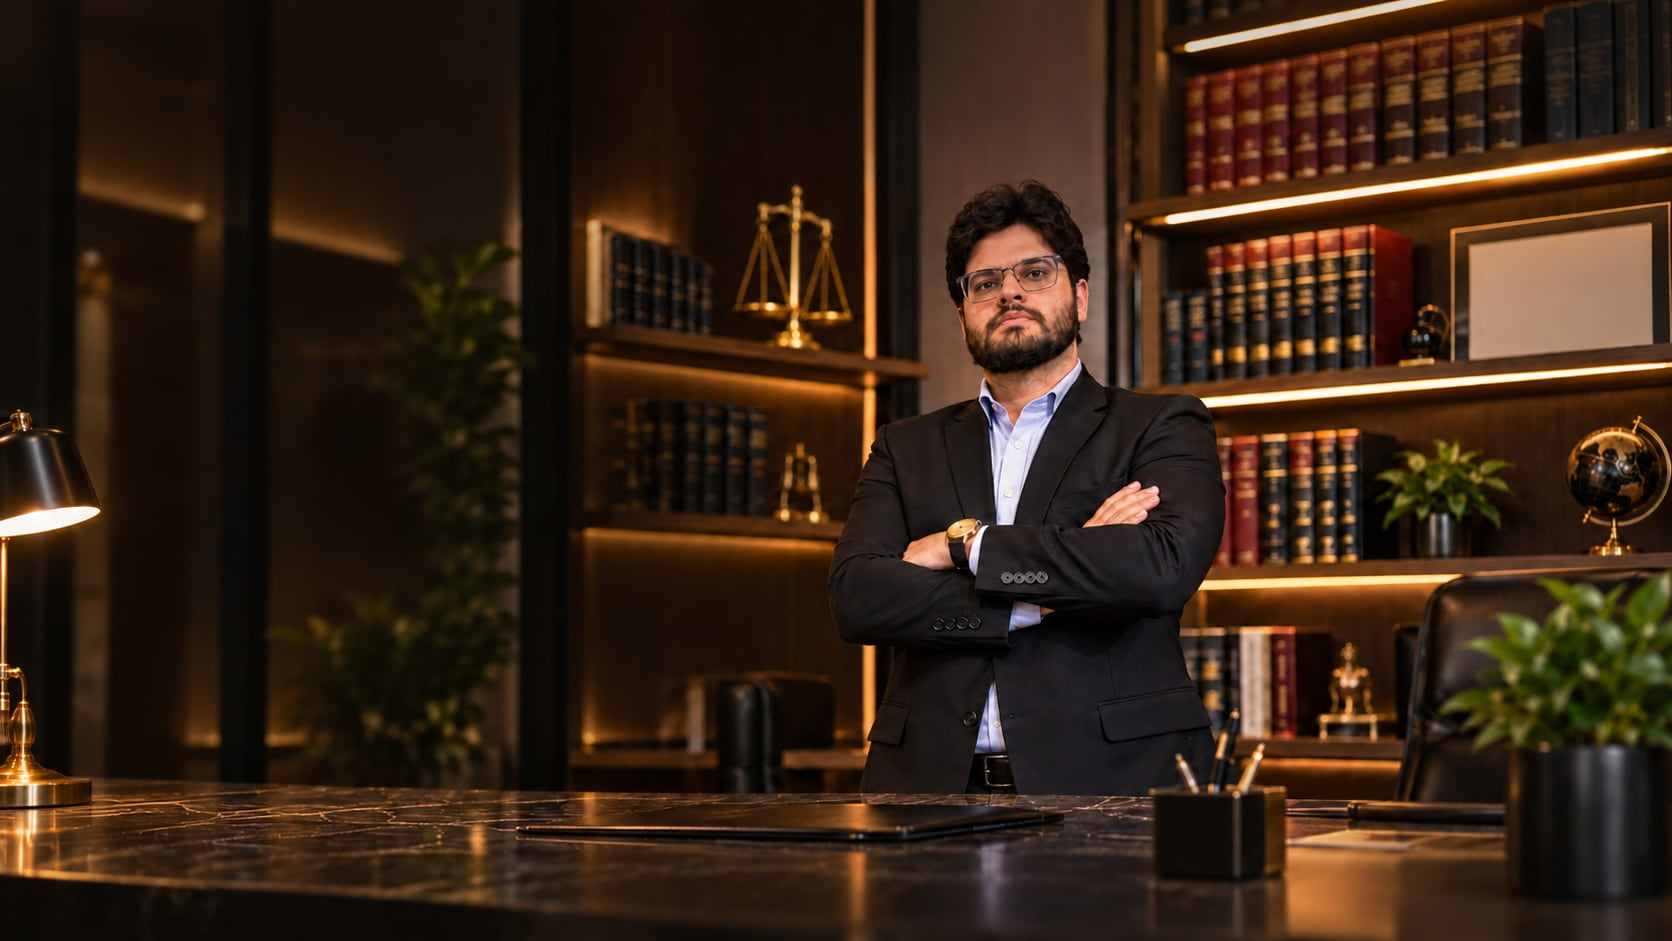
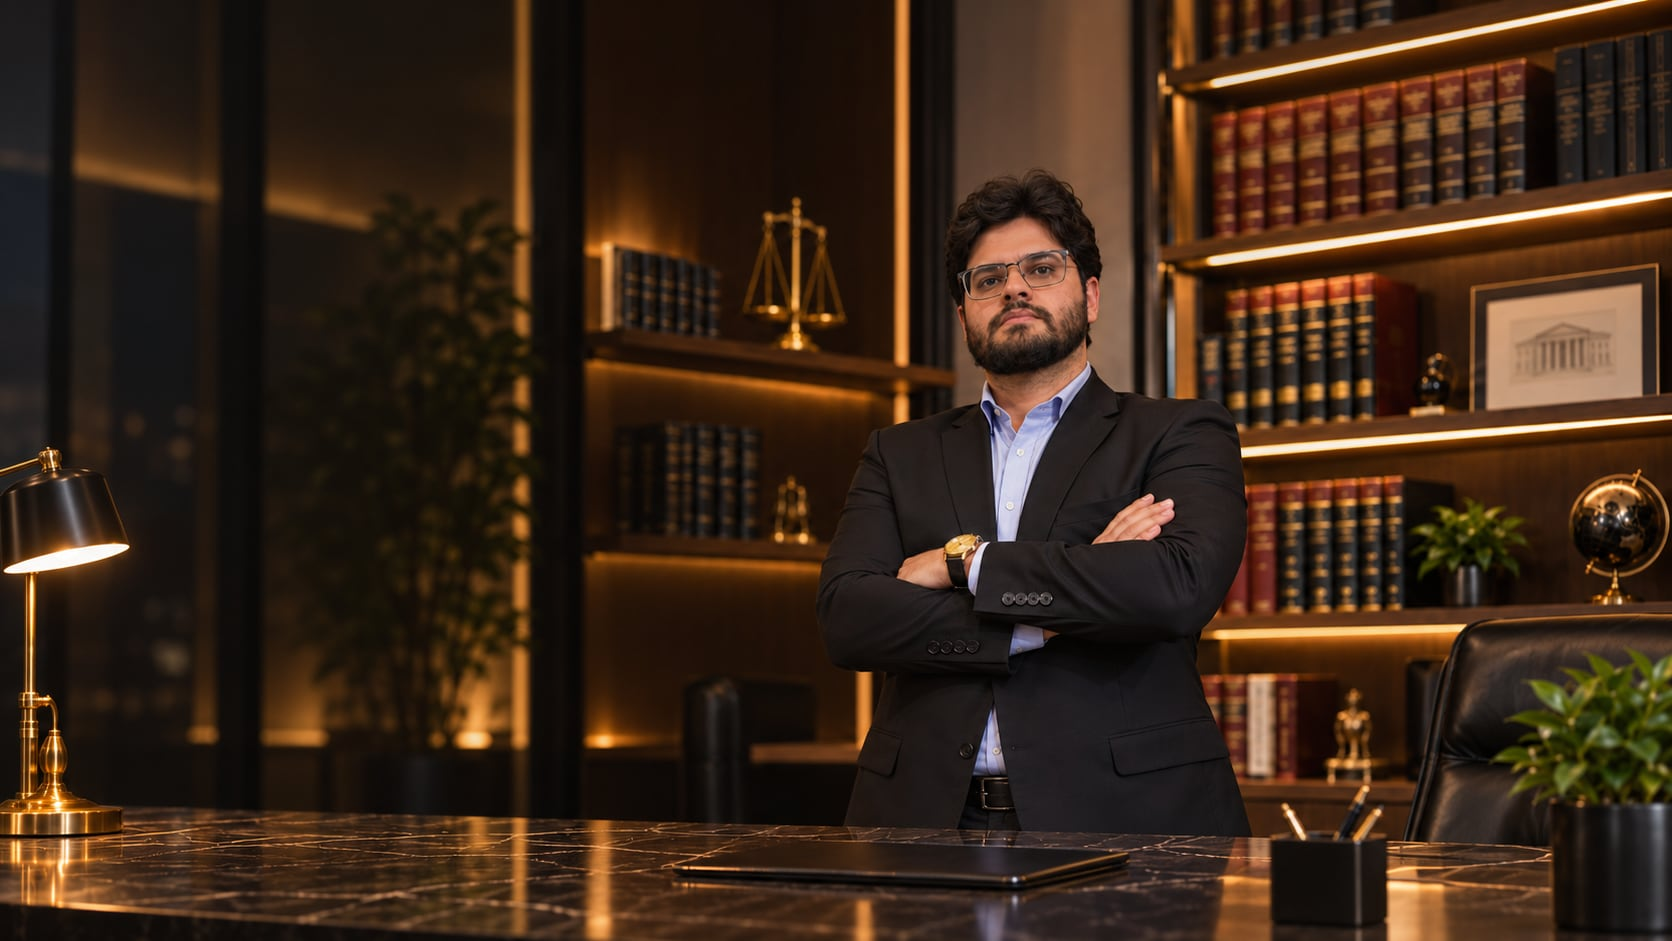
Troca imagem de fundo do hero e amplia brasoes em marca d'agua
- Substitui hero-bg.jpg/webp pelo novo asset aprovado (mesma
  composicao: advogado em pe, mesa em primeiro plano, estante ao
  fundo), reconvertido via sharp (mozjpeg q84 / webp q82), sem
  reinterpretacao ou distorcao do arquivo original.
- Brasoes em marca d'agua: aumenta significativamente o porte em
  Atuacao (direita) e Diferenciais (direita, a mais evidente), e em
  proporcao menor em Formacao (esquerda) e Contato (esquerda),
  preenchendo o espaco negativo real de cada secao. Larguras migram
  para clamp() responsivo para nao invadir o conteudo em telas
  menores (1100-1366px) mantendo o porte grande em telas largas
  (1920px), conforme referencia visual fornecida.

diff --git a/index.html b/index.html
@@ -176,18 +176,22 @@
        removido por ficar redundante entre Diferenciais e Contato (pouco
        espaço negativo real na seção, numeração 01-03 já ocupa a largura).
        Lados alternados em sequência (direita → esquerda → direita → esquerda)
-       para não repetir o mesmo lado em seções consecutivas. */
+       para não repetir o mesmo lado em seções consecutivas. Tamanho calibrado
+       por seção para preencher de fato o espaço negativo disponível, sem
+       tocar texto/CTA/formulário — Atuação e Diferenciais recebem o maior
+       porte (referência visual fornecida pelo cliente), pois são as seções
+       com o vazio lateral mais evidente. */
     .crest-atuacao {
-      width: 258px; right: -40px; top: 50%; transform: translateY(-50%); opacity: .09;
+      width: clamp(300px, 27vw, 560px); right: -70px; top: 50%; transform: translateY(-50%); opacity: .1;
     }
     .crest-formacao {
-      width: 200px; left: -28px; top: 14%; opacity: .08;
+      width: clamp(220px, 16vw, 300px); left: -40px; top: 10%; opacity: .09;
     }
     .crest-diferenciais {
-      width: 188px; right: -24px; bottom: 14%; opacity: .08;
+      width: clamp(280px, 38vw, 780px); right: -60px; top: 50%; transform: translateY(-50%); opacity: .08;
     }
     .crest-contato {
-      width: 258px; left: -38px; top: 50%; transform: translateY(-50%); opacity: .09;
+      width: clamp(240px, 19vw, 360px); left: -54px; top: 50%; transform: translateY(-50%); opacity: .1;
     }
 
     @media (max-width: 768px) {
@@ -197,8 +201,8 @@
          discretos e parcialmente cortados; as demais (conteúdo mais denso
          em coluna única) ficam sem marca d'água. */
       .crest-atuacao, .crest-formacao { display: none; }
-      .crest-diferenciais { width: 120px; opacity: .06; right: -18px; bottom: 10%; transform: none; }
-      .crest-contato { width: 140px; opacity: .06; left: -20px; top: 40%; transform: translateY(-50%); }
+      .crest-diferenciais { width: 150px; opacity: .07; right: -22px; bottom: 10%; transform: none; }
+      .crest-contato { width: 170px; opacity: .07; left: -24px; top: 40%; transform: translateY(-50%); }
     }
 
     .section-tag {
